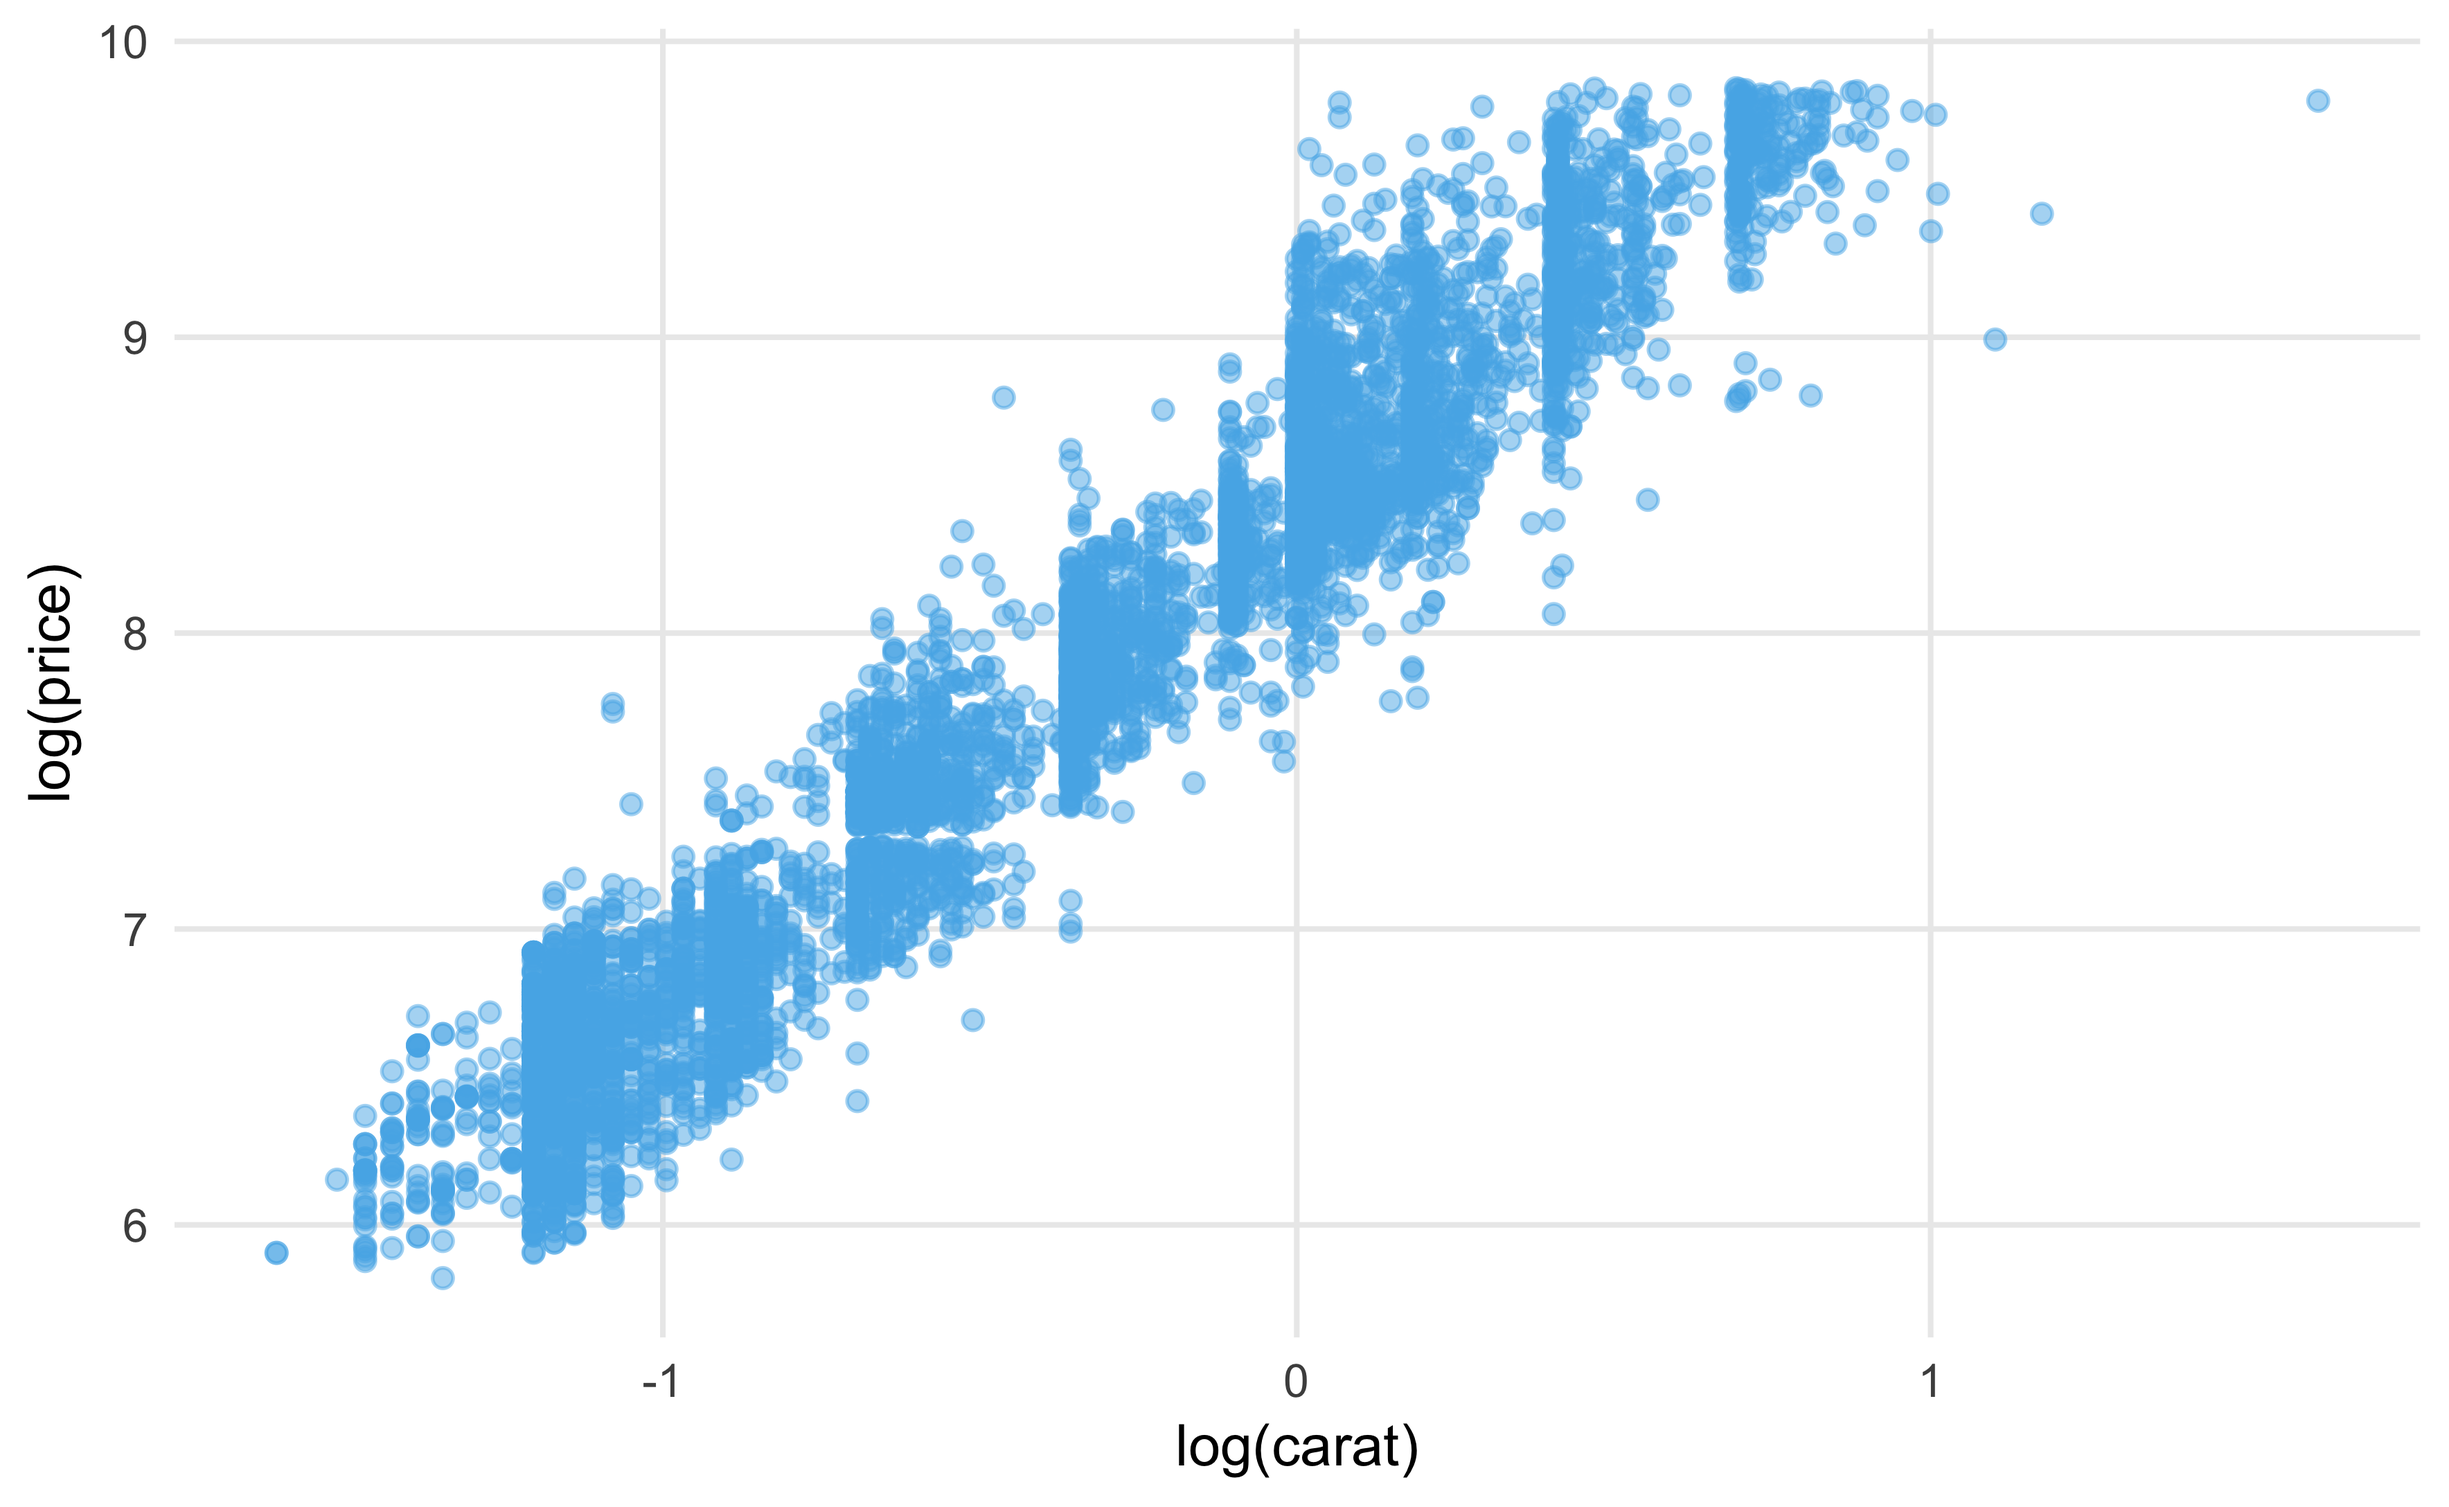
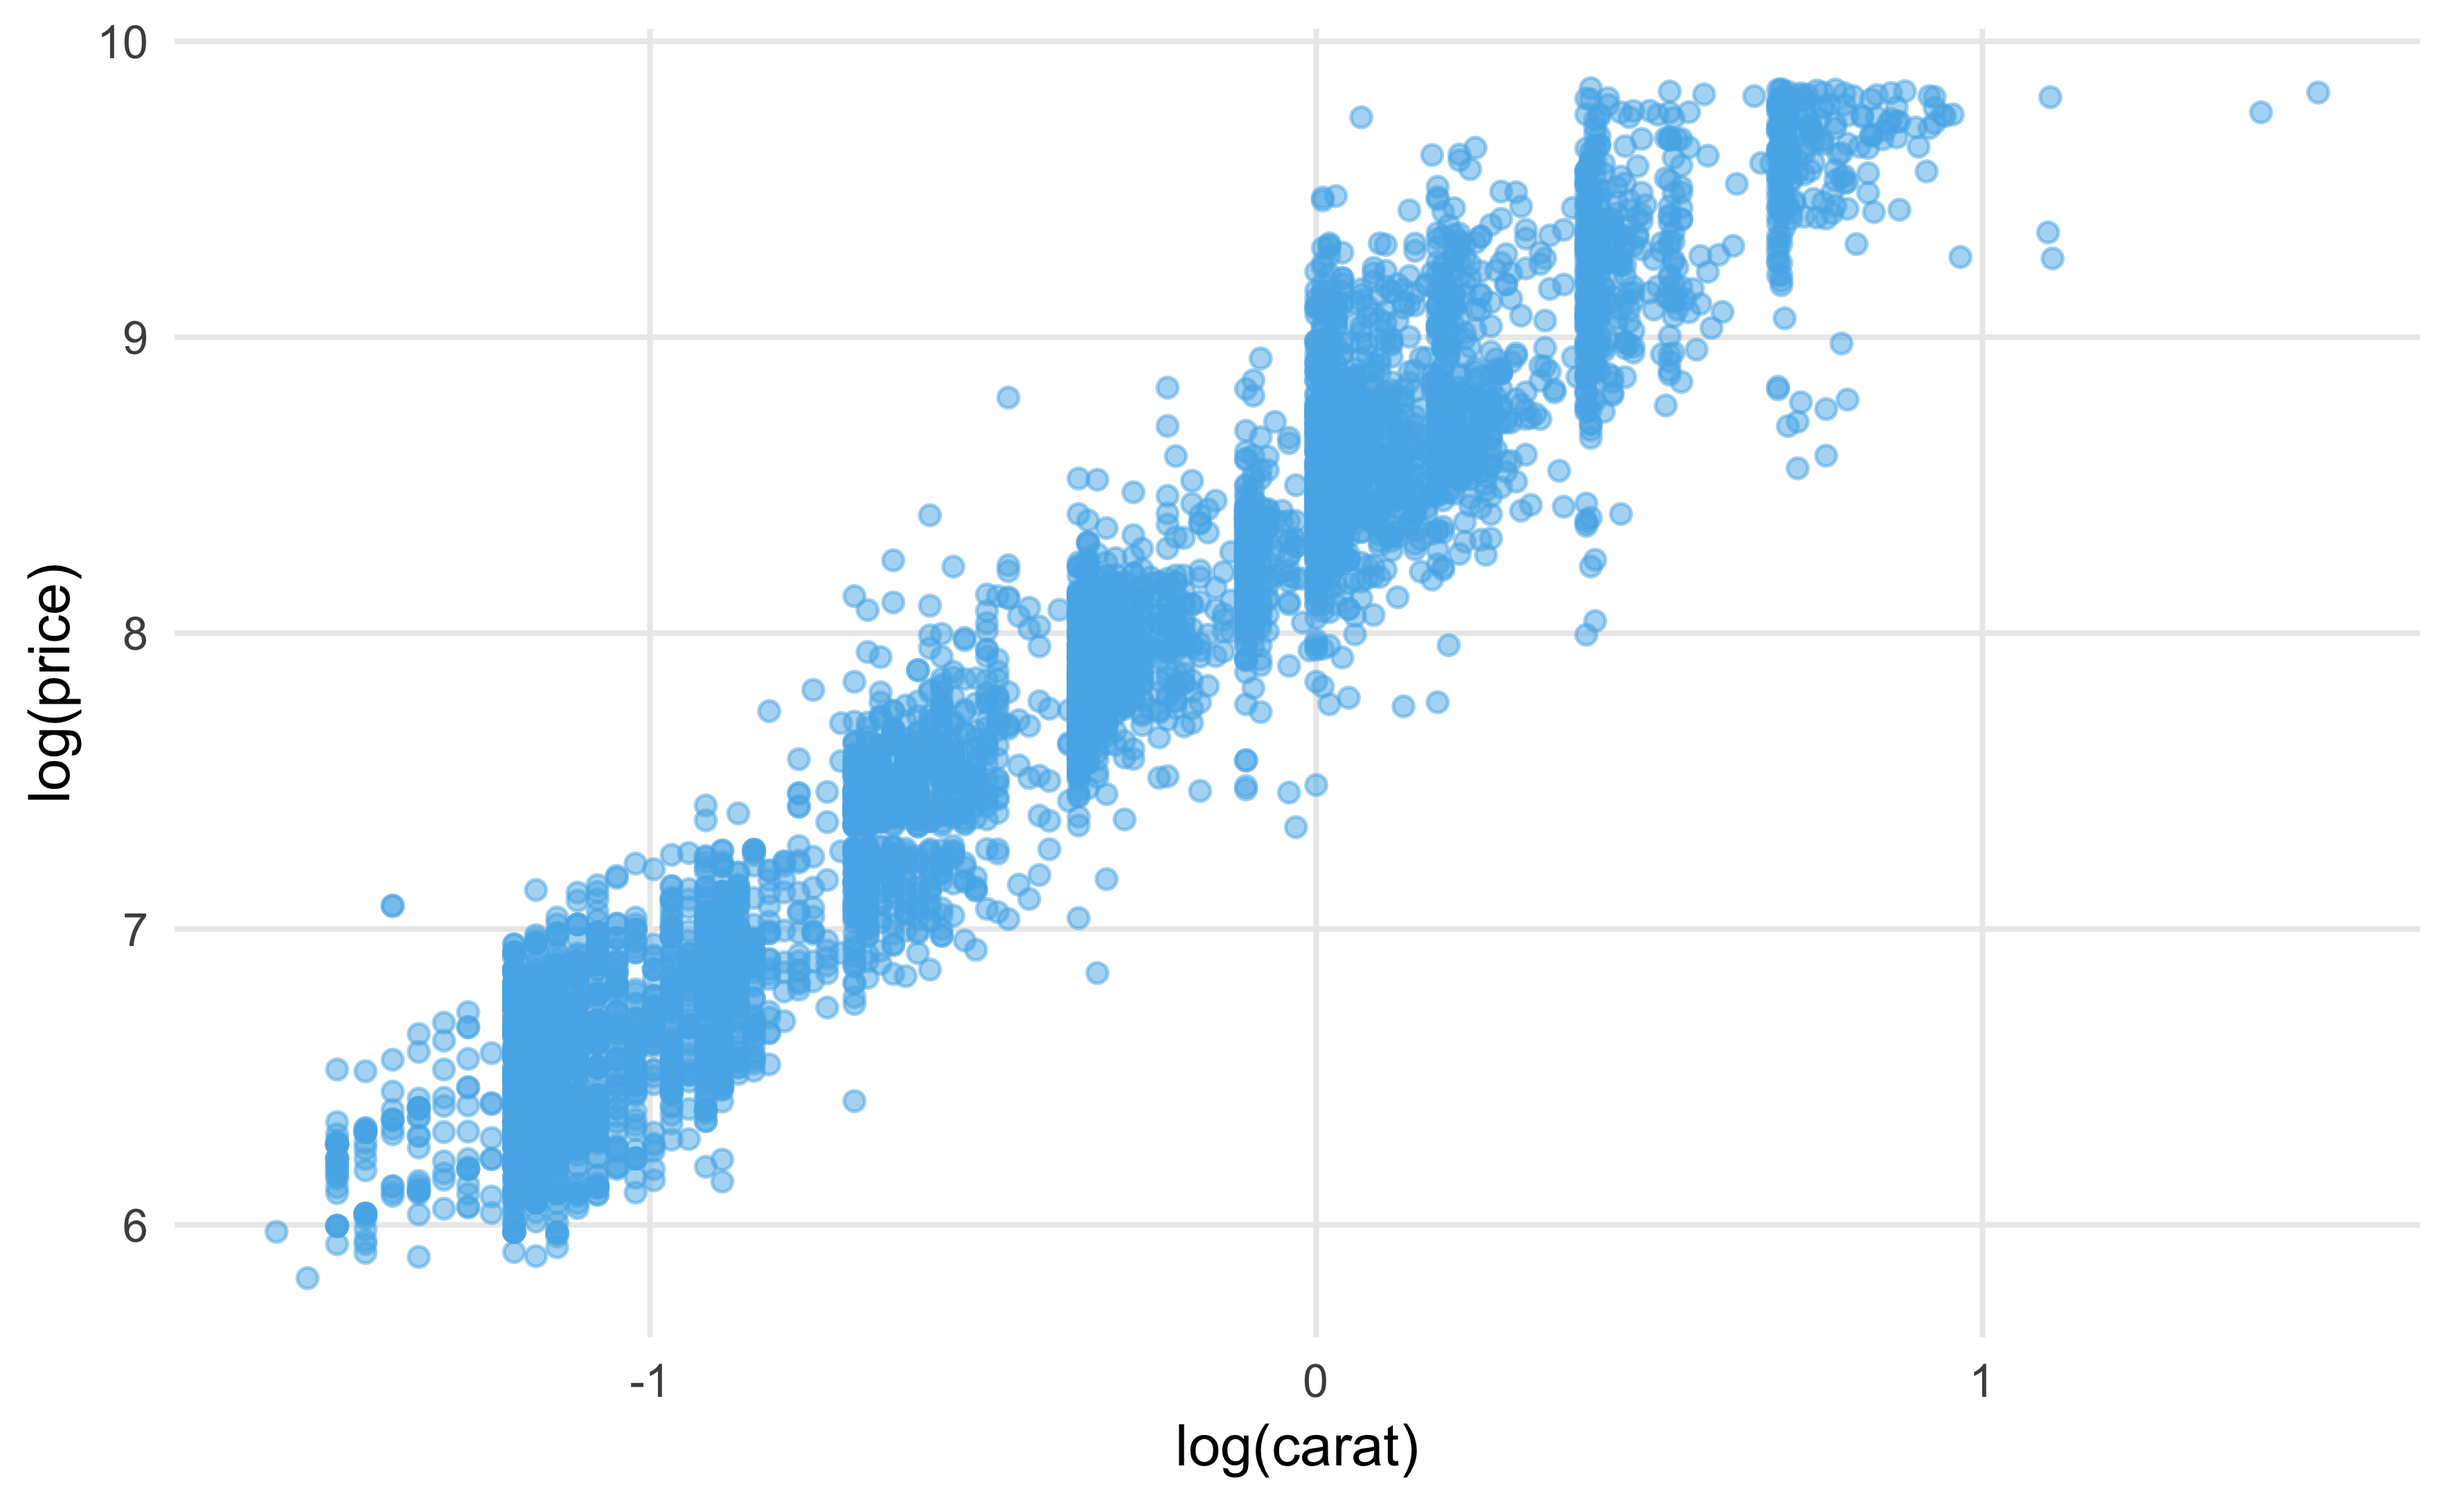
微修正

diff --git a/docs/posts/2019-01-01-test/index.html b/docs/posts/2019-01-01-test/index.html
@@ -62,7 +62,7 @@
 <!--/radix_placeholder_rmarkdown_metadata-->
   
   <script type="text/json" id="radix-resource-manifest">
-  {"type":"character","attributes":{},"value":["test_files/bowser-1.9.3/bowser.min.js","test_files/crosstalk-1.0.0/css/crosstalk.css","test_files/crosstalk-1.0.0/js/crosstalk.js","test_files/crosstalk-1.0.0/js/crosstalk.js.map","test_files/crosstalk-1.0.0/js/crosstalk.min.js","test_files/crosstalk-1.0.0/js/crosstalk.min.js.map","test_files/datatables-binding-0.5/datatables.js","test_files/datatables-css-0.0.0/datatables-crosstalk.css","test_files/distill-2.2.21/template.v2.js","test_files/dt-core-1.10.16/css/jquery.dataTables.extra.css","test_files/dt-core-1.10.16/css/jquery.dataTables.min.css","test_files/dt-core-1.10.16/js/jquery.dataTables.min.js","test_files/figure-html5/unnamed-chunk-2-1.png","test_files/figure-html5/unnamed-chunk-3-1.png","test_files/figure-html5/unnamed-chunk-4-1.png","test_files/figure-html5/unnamed-chunk-5-1.png","test_files/figure-html5/unnamed-chunk-6-1.png","test_files/figure-html5/unnamed-chunk-7-1.png","test_files/htmlwidgets-1.3/htmlwidgets.js","test_files/jquery-1.11.3/jquery.min.js","test_files/jquery-1.12.4/jquery.min.js","test_files/jquery-1.12.4/LICENSE.txt","test_files/pagedtable-1.1/css/pagedtable.css","test_files/pagedtable-1.1/js/pagedtable.js","test_files/webcomponents-2.0.0/webcomponents.js"]}
+  {"type":"character","attributes":{},"value":["test_files/bowser-1.9.3/bowser.min.js","test_files/crosstalk-1.0.0/css/crosstalk.css","test_files/crosstalk-1.0.0/js/crosstalk.js","test_files/crosstalk-1.0.0/js/crosstalk.js.map","test_files/crosstalk-1.0.0/js/crosstalk.min.js","test_files/crosstalk-1.0.0/js/crosstalk.min.js.map","test_files/datatables-binding-0.5/datatables.js","test_files/datatables-css-0.0.0/datatables-crosstalk.css","test_files/distill-2.2.21/template.v2.js","test_files/dt-core-1.10.16/css/jquery.dataTables.extra.css","test_files/dt-core-1.10.16/css/jquery.dataTables.min.css","test_files/dt-core-1.10.16/js/jquery.dataTables.min.js","test_files/figure-html5/unnamed-chunk-16-1.png","test_files/figure-html5/unnamed-chunk-2-1.png","test_files/figure-html5/unnamed-chunk-3-1.png","test_files/figure-html5/unnamed-chunk-4-1.png","test_files/figure-html5/unnamed-chunk-5-1.png","test_files/figure-html5/unnamed-chunk-6-1.png","test_files/figure-html5/unnamed-chunk-7-1.png","test_files/htmlwidgets-1.3/htmlwidgets.js","test_files/jquery-1.11.3/jquery.min.js","test_files/jquery-1.12.4/jquery.min.js","test_files/jquery-1.12.4/LICENSE.txt","test_files/pagedtable-1.1/css/pagedtable.css","test_files/pagedtable-1.1/js/pagedtable.js","test_files/webcomponents-2.0.0/webcomponents.js"]}
   </script>
   <!--radix_placeholder_navigation_in_header-->
 
@@ -1346,6 +1346,7 @@ theme_minimal2 = theme_scatter +
 skyblue = &quot;#56B4E9&quot;</code></pre>
 </div>
 <p>データセットはこれまたおなじみの<code>diamond</code>を使います。 詳細は<code>?diamonds</code>を見て頂ければと思いますが、ダイヤの重さ(<code>carat</code>)や透明度(<code>clarity</code>)とその値段(<code>price</code>)などが入ったデータセットになります。 今回はこのデータセットを用いて、ダイヤの属性がダイヤの値段にどんな影響を与えるのかを探索することにします。</p>
+<h1>可視化によるデータ分析</h1>
 <p>まずはアウトカムである価格の分布を見てみましょう。</p>
 <div class="layout-chunk" data-layout="l-body">
 <pre class="r"><code>
@@ -1409,6 +1410,7 @@ df %&gt;%
 </div>
 <p>透明度が高い場合にはカラット数が小さくなる傾向が見て取れます。 僕はダイヤモンドに詳しくないのですが、大きくて透明なダイヤを作るのは難しいということのようです。(参考:<a href="https://www.bluenile.com/jp/education/diamonds/clarity" class="uri">https://www.bluenile.com/jp/education/diamonds/clarity</a>)</p>
 <p>つまり、ここでは「ダイヤのカラットと価格には正の相関がある一方で、カラットと透明度には負の相関があり、結果として透明度と価格に負の相関があるように見えてしまう」という典型的な交絡の問題が起きています。 この場合は、重回帰分析でカラットの影響を取り除くことで透明度と価格の正しい関係を見ることができます。 今回のように、単純に一つ一つの説明変数と非説明変数の関係を見ているだけでは間違った結論を下していまう可能性があるので注意が必要です。</p>
+<h1>モデリングによるデータ分析</h1>
 <p>ここまでの可視化で得られた仮説を回帰モデルで確かめてみましょう。</p>
 <p>回帰モデルを作る前に、カテゴリカル変数が<code>ordere=TRUE</code>になっていると<code>lm()</code>の挙動が面倒なので、<code>factor</code>型の変数は全て<code>ordered=FALSE</code>にしておきます。</p>
 <div class="layout-chunk" data-layout="l-body">
@@ -1417,6 +1419,7 @@ df_input = df %&gt;%
     mutate_if(is.ordered, factor, ordered = FALSE)</code></pre>
 </div>
 <p><code>mutate_if()</code>は複数の列に同じ処理を行う際にめちゃくちゃ便利な関数です。 第一引数で条件を指定して（<code>is.ordered</code>）、条件に当てはまった列にのみ第二引数の関数を適用します（<code>factor</code>）。関数のオプションは後ろにくっつけて指定すればOKです（<code>ordered = FALSE</code>）。</p>
+<h2>複数のモデルを当てはめる場合</h2>
 <p>今回は</p>
 <ol type="1">
 <li>価格を透明度のみで説明するモデル</li>
@@ -1504,6 +1507,40 @@ df_result %&gt;%
 </div>
 </div>
 <p>様々な指標がまとめて出力されますが、今回は自由度調整済み決定係数(<code>adj.r.squared</code>)を見ることにしましょう。 透明度のみモデル（モデル1）と比べると、カラットを加えることでモデルの説明力は大幅に上昇しています（モデル2）。 カラットに対数をとるとさらに説明力が改善されており（モデル3）、3つのモデルの中ではモデル3がベストであると言えそうです。</p>
+<h2>データをサブサンプルに分けて分析する場合</h2>
+<div class="layout-chunk" data-layout="l-body">
+<pre class="r"><code>
+df_result2 = df %&gt;% 
+    nest(-cut) %&gt;% 
+    mutate(model = map(data, ~lm(log(price) ~ log(carat), data = .)),
+           tidied = map(model, tidy))</code></pre>
+</div>
+<div class="layout-chunk" data-layout="l-body">
+<pre class="r"><code>
+df_result2 %&gt;% 
+    select(cut, tidied) %&gt;% 
+    unnest() %&gt;% 
+    filter(term != &quot;(Intercept)&quot;)</code></pre>
+<pre><code>
+# A tibble: 5 x 6
+  cut       term       estimate std.error statistic p.value
+  &lt;ord&gt;     &lt;chr&gt;         &lt;dbl&gt;     &lt;dbl&gt;     &lt;dbl&gt;   &lt;dbl&gt;
+1 Ideal     log(carat)     1.71   0.00310     550.        0
+2 Premium   log(carat)     1.66   0.00355     467.        0
+3 Good      log(carat)     1.74   0.00635     274.        0
+4 Very Good log(carat)     1.73   0.00382     452.        0
+5 Fair      log(carat)     1.49   0.0171       87.2       0</code></pre>
+</div>
+<div class="layout-chunk" data-layout="l-body">
+<pre class="r"><code>
+df %&gt;% 
+    sample_frac(0.1) %&gt;% #データが多いので減らす
+    ggplot(aes(log(carat), log(price))) +
+    geom_point(color = skyblue, alpha = 0.5) +
+    facet_wrap(~cut) + 
+    theme_scatter</code></pre>
+<p><img src="test_files/figure-html5/unnamed-chunk-16-1.png" width="1768" /></p>
+</div>
 <!--radix_placeholder_article_footer-->
 <!--/radix_placeholder_article_footer-->
 </div>
